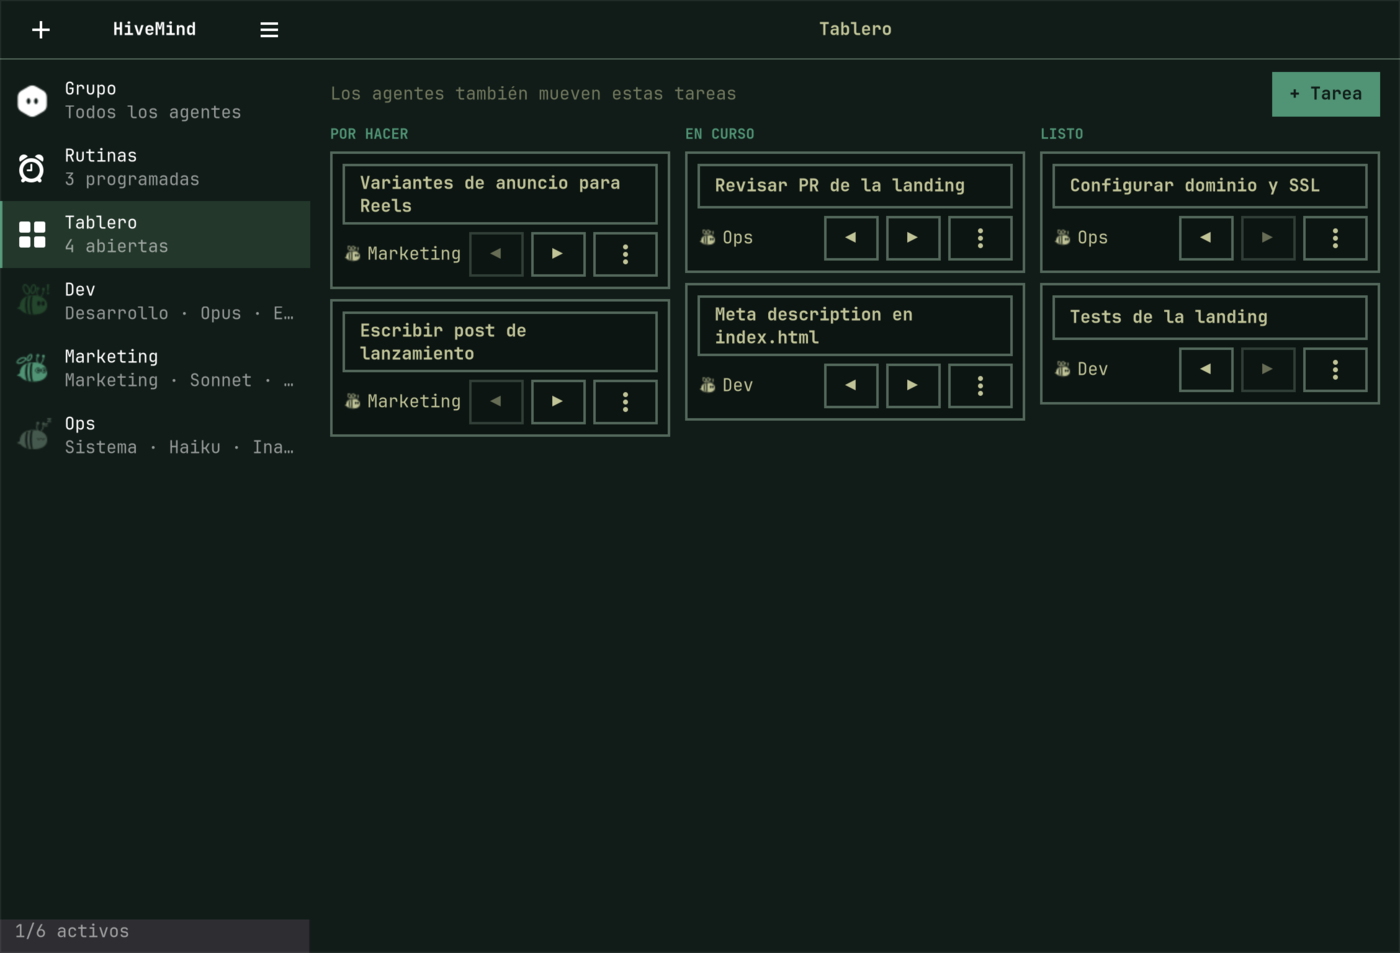
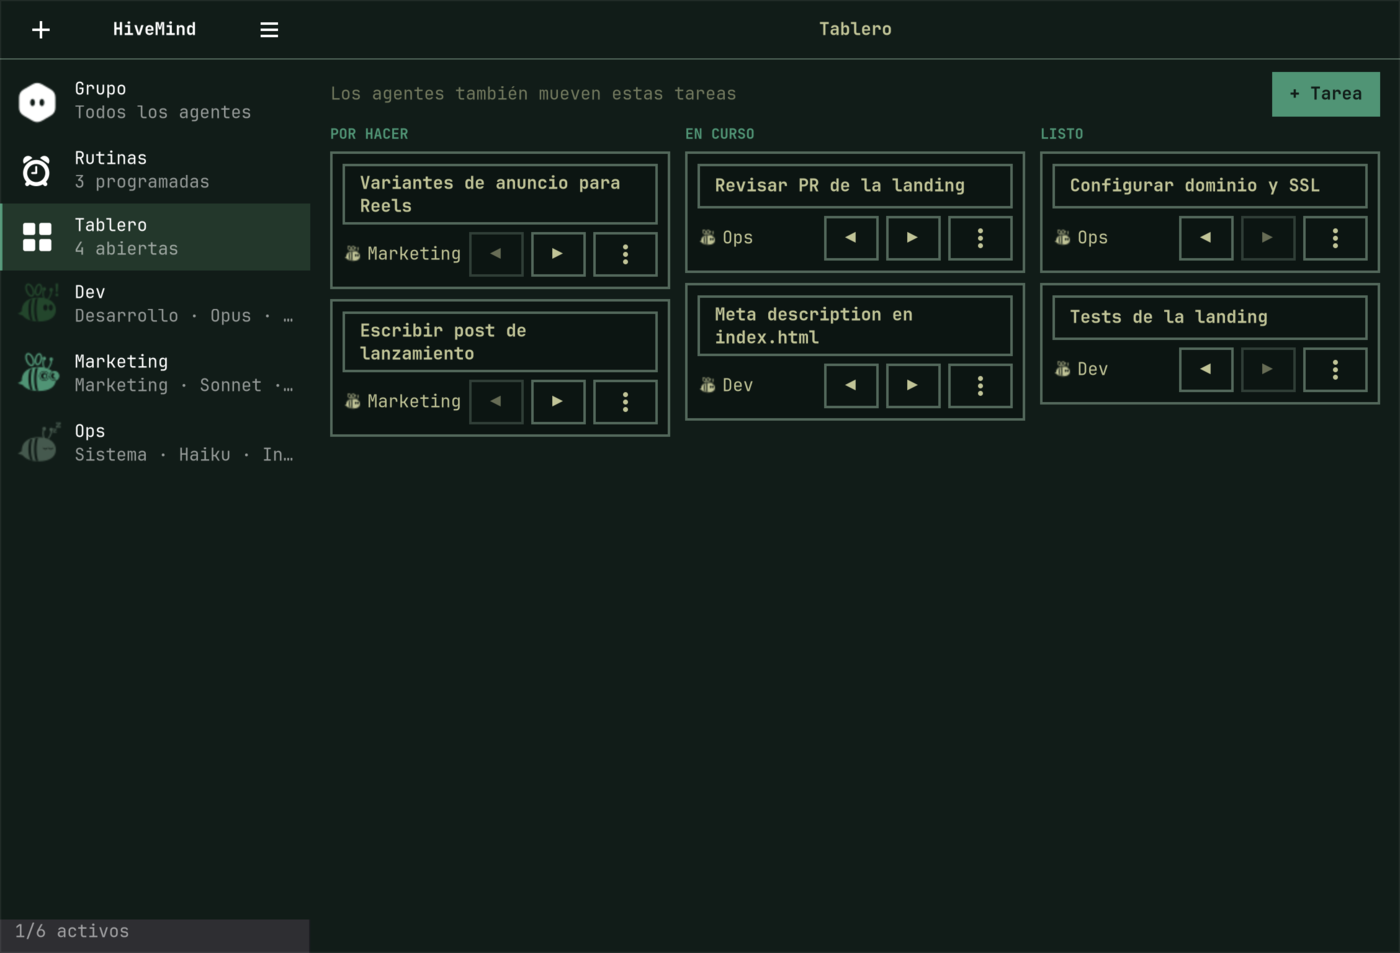
feat: bigger bees, and thinking glasses that stand out past the head

Changed region(s): [[0.0, 0.1522, 0.1843, 0.3347], [0.0, 0.3652, 0.215, 0.4869], [0.0, 0.0913, 0.1843, 0.1217]]

diff --git a/Panel.qml b/Panel.qml
@@ -195,8 +195,8 @@ Panel {
     bar: root.bar
     iconComponent: Component {
       Item {
-        implicitWidth: Style.space(18)
-        implicitHeight: Style.space(18)
+        implicitWidth: Style.space(22)
+        implicitHeight: Style.space(22)
         // Same SVGs as the window; tinted with the shell colours like the tray tints symbolic icons.
         Image {
           id: beeImage

diff --git a/tools/icons.py b/tools/icons.py
@@ -62,12 +62,6 @@ def _eyes(kind):
                     f"L{b[0] - px:.2f},{b[1] - py:.2f} L{a[0] - px:.2f},{a[1] - py:.2f} Z")
         return " ".join(arm(cx, cy, dx, dy) for cx, cy in (_EYE_L, _EYE_R)
                         for dx, dy in ((1, 1), (1, -1), (-1, 1), (-1, -1)))
-    if kind == "glasses":  # round frames + bridge cut out of the body, pupils inside
-        L, R = (41.2, 35), (50.8, 35)
-        frames = " ".join(_oval(cx, cy, 4.3, 4.3) + " " + _oval(cx, cy, 3.2, 3.2) for cx, cy in (L, R))
-        pupils = _oval(L[0] + 0.6, L[1], 1.6, 2.2) + " " + _oval(R[0] + 0.6, R[1], 1.6, 2.2)
-        bridge = f"M{L[0] + 4.1},{L[1] - 1.1} L{R[0] - 4.1},{R[1] - 1.1} L{R[0] - 4.1},{R[1] + 0.1} L{L[0] + 4.1},{L[1] + 0.1} Z"
-        return f"{frames} {bridge} {pupils}"
     raise ValueError(kind)
 
 
@@ -94,11 +88,32 @@ _POSES = {
 FRAMES = tuple(_POSES)
 
 
+# Thinking glasses: big round frames, the right one sticking out past the head. The body is cut
+# a little wider than each frame so the frame reads as a separate object, lenses stay clear.
+_GLASS_L, _GLASS_R = (41.0, 33.5), (54.0, 33.5)
+_GLASS_GAP, _GLASS_OUT, _GLASS_IN = 6.4, 5.7, 4.1
+
+
+def _glasses():
+    frames = " ".join(_oval(cx, cy, _GLASS_OUT, _GLASS_OUT) + " " + _oval(cx, cy, _GLASS_IN, _GLASS_IN)
+                      for cx, cy in (_GLASS_L, _GLASS_R))
+    pupils = " ".join(_oval(cx + 0.9, cy + 0.3, 1.9, 2.6) for cx, cy in (_GLASS_L, _GLASS_R))
+    (lx, ly), (rx, ry) = _GLASS_L, _GLASS_R
+    bridge = f"M{lx + 5.4},{ly - 2.2} L{rx - 5.4},{ry - 2.2} L{rx - 5.4},{ry - 0.6} L{lx + 5.4},{ly - 0.6} Z"
+    return (f'<path fill-rule="evenodd" d="{frames}"/><path fill-rule="evenodd" d="{pupils}"/>'
+            f'<path d="{bridge}"/>')
+
+
 def bee(frame):
     wings, eyes, dy, extra = _POSES[frame]
     wing_path = f'<path fill-rule="evenodd" d="{_WINGS[wings]}"/>' if _WINGS[wings] else ""
-    return (f'<g transform="translate(0,{dy})">'
-            f'<path fill-rule="evenodd" d="{_BODY} {_eyes(eyes)} {_STRIPES}"/>{wing_path}'
+    if eyes == "glasses":
+        cuts = " ".join(_oval(cx, cy, _GLASS_GAP, _GLASS_GAP) for cx, cy in (_GLASS_L, _GLASS_R))
+        face, glasses = cuts, _glasses()
+    else:
+        face, glasses = _eyes(eyes), ""
+    return (f'<g transform="translate(0,{dy})">{wing_path}'
+            f'<path fill-rule="evenodd" d="{_BODY} {face} {_STRIPES}"/>{glasses}'
             f'<path d="{_antenna(46, 24, 50, 12, 3)}"/>'
             f'<path d="{_antenna(41, 23.5, 41, 11, -3)}"/></g>{extra}')
 

diff --git a/hivemind/ui/window.py b/hivemind/ui/window.py
@@ -10,6 +10,8 @@ from hivemind.ui.routines import RoutinesView
 from hivemind.ui.bee import AnimatedBee
 
 
+AVATAR = 40  # sidebar avatar size in px
+
 _STATUS = {"idle": "Inactivo", "queued": "En cola", "working": "Trabajando",
            "waiting": "Esperando aprobación", "error": "Error"}
 
@@ -129,11 +131,11 @@ class MainWindow(Adw.ApplicationWindow):
         box = Gtk.Box(spacing=10, margin_top=6, margin_bottom=6, margin_start=6, margin_end=6)
         if thread in ("routines", "board"):
             avatar = Gtk.Image(icon_name="alarm-symbolic" if thread == "routines" else "view-grid-symbolic",
-                               pixel_size=24, width_request=32)
+                               pixel_size=26, width_request=AVATAR)
         elif thread == "group" or thread.startswith("g-"):
-            avatar = Gtk.Image(icon_name="hivemind-hex-symbolic", pixel_size=32)
+            avatar = Gtk.Image(icon_name="hivemind-hex-symbolic", pixel_size=AVATAR)
         else:
-            avatar = AnimatedBee(self.statuses.get(thread, "idle"), seed=thread,
+            avatar = AnimatedBee(self.statuses.get(thread, "idle"), seed=thread, size=AVATAR,
                                  activity=self.activities.get(thread), last_active=self.last_active.get(thread))
             self.bees[thread] = avatar
         box.append(avatar)

diff --git a/hivemind/ui/chat.py b/hivemind/ui/chat.py
@@ -103,7 +103,7 @@ class ChatView(Gtk.Box):
             col = Gtk.Box(orientation=Gtk.Orientation.VERTICAL, spacing=2, halign=Gtk.Align.START)
             if self.is_group:
                 who = Gtk.Box(spacing=6)
-                bee = Gtk.Image(icon_name="hivemind-bee-up-symbolic", pixel_size=18)
+                bee = Gtk.Image(icon_name="hivemind-bee-up-symbolic", pixel_size=22)
                 bee.add_css_class("hivemind-bee-queued")
                 who.append(bee)
                 who.append(_label(GLib.markup_escape_text(self.names.get(m["author"], "?")), "hivemind-author"))
